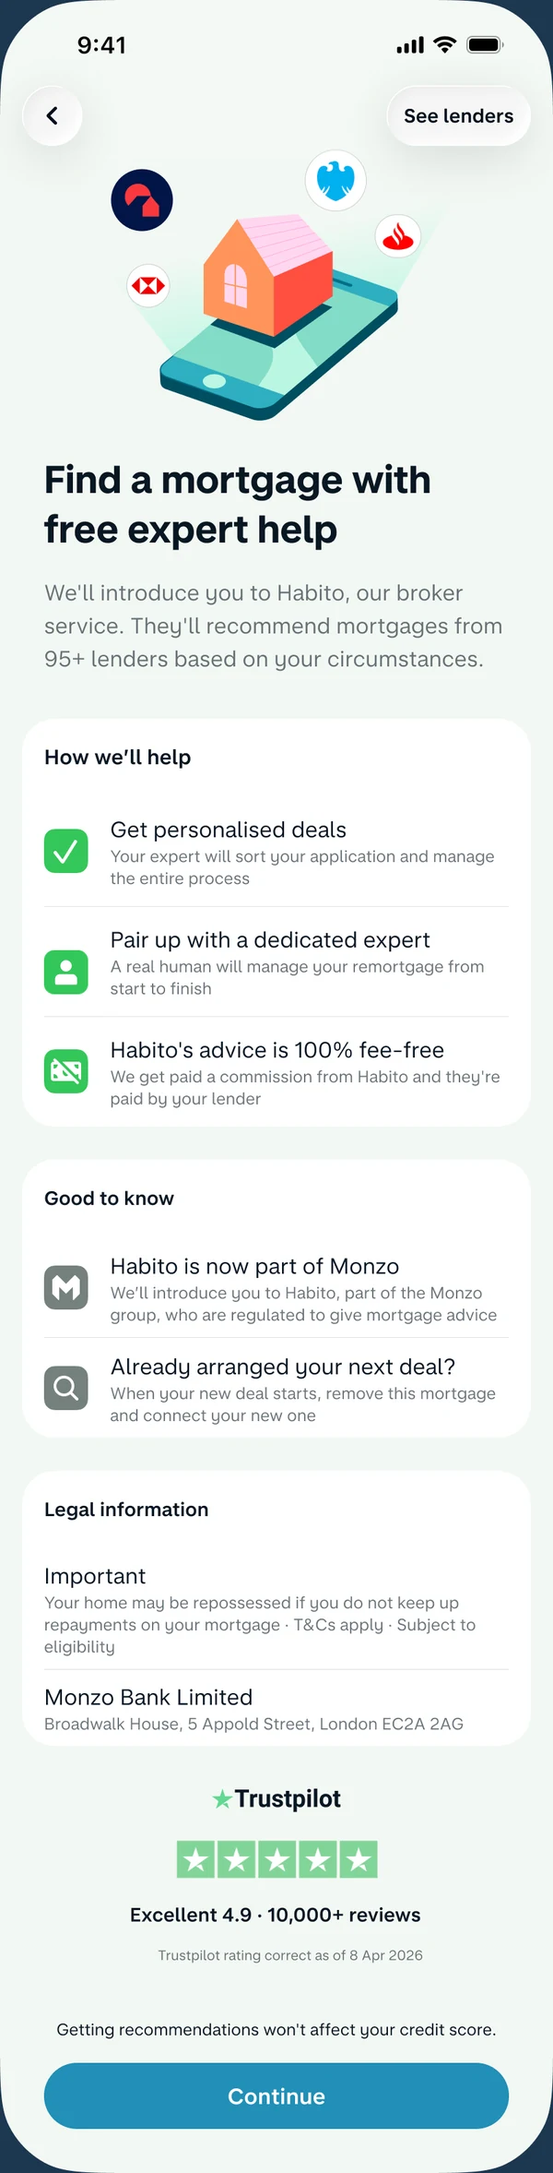
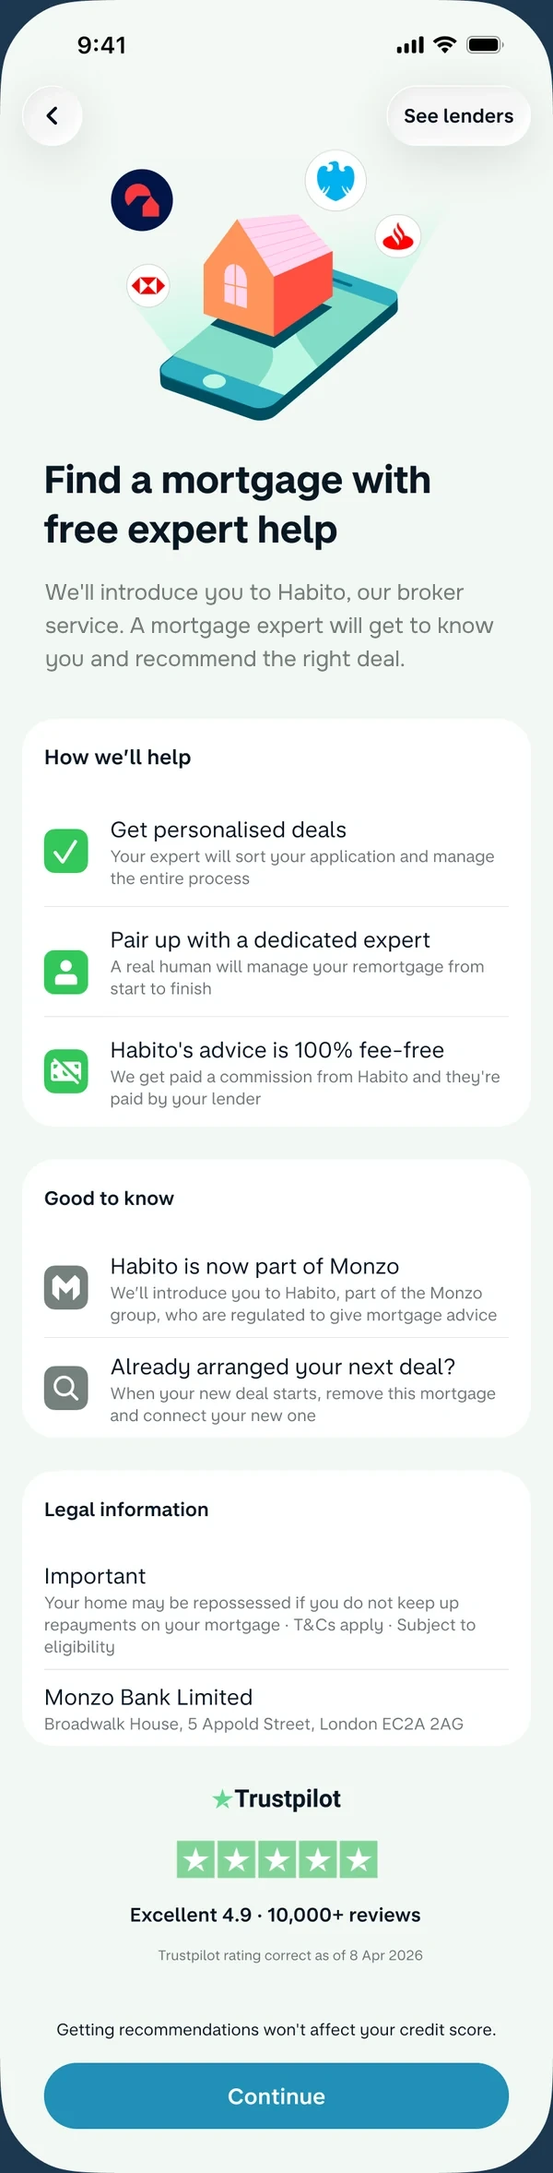
Slide 10: value proposition subtitle leads with the expert, not the number of lenders
Claude-Session: https://claude.ai/code/session_019ui8k763ghSzq4U6arn5bM

Changed region(s): [[0.09, 0.248, 0.9, 0.31]]

diff --git a/remortgage-presentation/present.html b/remortgage-presentation/present.html
@@ -9,11 +9,11 @@
 <link rel="preconnect" href="https://fonts.googleapis.com">
 <link rel="preconnect" href="https://fonts.gstatic.com" crossorigin>
 <link href="https://fonts.googleapis.com/css2?family=DM+Sans:opsz,wght@9..40,400;9..40,500;9..40,600;9..40,700;9..40,800&family=Fragment+Mono&display=swap" rel="stylesheet">
-<link rel="stylesheet" href="styles.css?v=219">
-<link rel="stylesheet" href="deck.css?v=219">
-<link rel="stylesheet" href="monzo.css?v=219">
+<link rel="stylesheet" href="styles.css?v=220">
+<link rel="stylesheet" href="deck.css?v=220">
+<link rel="stylesheet" href="monzo.css?v=220">
 <link rel="preconnect" href="https://images.ctfassets.net">
-<script src="present.js?v=219" defer></script>
+<script src="present.js?v=220" defer></script>
 <style>
 body.present{--bar:52px;background:#112231;grid-template-rows:minmax(0,1fr) auto;height:100svh;min-height:0;overflow:hidden}
 .present .topbar,.present .slide-caption,.present .arrow,.present .notes-bottom,.present .notes-sheet{display:none!important}
@@ -137,7 +137,7 @@ body.present{--bar:52px;background:#112231;grid-template-rows:minmax(0,1fr) auto
   </div>
   <div class="role-ph a" style="--d:4"><div class="bz" style="width:246px"><span class="bz-screen"><img class="ir-scroll" src="assets/img/ir-rates.webp?v=3" alt="Current mortgage rates start at 4.6%: rates by mortgage length, with no connected mortgage" style="--t:-53.4%"></span></div><p><b>Indicative rates</b> · no connection needed</p></div><div class="role-ph a" style="--d:5"><div class="bz" style="width:246px"><span class="bz-screen"><img src="assets/img/ir-filters.webp?v=2" alt="Filters: deal length, property value, mortgage balance, property use and mortgage term"></span></div><p><b>Your details</b> · change them to your own numbers</p></div><div class="role-ph a" style="--d:6"><div class="bz" style="width:246px"><span class="bz-screen"><img class="ir-scroll" src="assets/img/ir-estimated.webp?v=4" alt="Your estimated rates start at 4.64%, based on your own mortgage details" style="--t:-42.4%"></span></div><p><b>Your estimated rates</b> · for your situation</p></div>
 </div></section>
-<section class="slide dark was-light" data-n="10" data-k="honb"><div class="eyebrow a mz-kicker">Habito</div><h1 class="a" style="--d:1">I designed the onboarding to Habito</h1><style>.bz-screen .ir-wrap{display:block;position:relative}.slide.active .bz-screen .ir-wrap{animation:irScroll 16s ease-in-out 1.4s infinite}@media (prefers-reduced-motion:reduce){.slide.active .bz-screen .ir-wrap{animation:none}}</style><div class="honb"><div class="role-ph a" style="--d:3"><div class="bz" style="width:250px"><span class="bz-screen"><span class="ir-wrap" style="--t:-44.6%"><img src="assets/img/honb-1.webp?v=8" alt="Find a mortgage with free expert help: Monzo introduces you to Habito, with how we’ll help and what’s good to know"><img class="bz-anim" src="assets/anim/house-light.webp" alt="" aria-hidden="true" style="left:19.17%;top:7.006%;width:66.67%"></span></span></div><p><b>Value proposition</b> · the first page</p></div><div class="role-ph a" style="--d:4"><div class="bz" style="width:250px"><span class="bz-screen"><img src="assets/img/honb-2.webp?v=7" alt="Habito by Monzo: let’s set up your account with the email Monzo already has, then continue"></span></div><p><b>Your Habito account</b> · check it in the app or on the web</p></div><div class="role-ph a" style="--d:5"><div class="bz" style="width:250px"><span class="bz-screen"><img src="assets/img/honb-3.webp?v=7" alt="Are you remortgaging with someone else? By myself, or with someone else"></span></div><p><b>Someone else?</b> · add a second applicant</p></div><div class="role-ph a" style="--d:6"><div class="bz" style="width:250px"><span class="bz-screen"><img src="assets/img/honb-4.webp?v=7" alt="You’re all set: we’ll now take you to Habito to fill in a few details"></span></div><p><b>You’re all set</b> · then on to Habito</p></div></div><div class="a" style="--d:7;display:flex;justify-content:center;gap:12px;margin-top:18px"><button type="button" class="fig-link ghost fb-btn" data-pop="honb-learning" style="margin-top:0">Learning 1 · people thought we were a comparison site</button><button type="button" class="fig-link ghost fb-btn" data-pop="honb-learning2" style="margin-top:0">Learning 2 · people didn’t want to leave Monzo</button></div><dialog class="fb-pop cmp-pop" id="honb-learning" aria-label="Learning 1: people thought we were a comparison site"><div class="fb-head"><div><p class="fb-kicker">Learning 1 · people thought we were a comparison site</p><p class="fb-sub">We led with “100+ lenders”, so a broker’s questions felt like a bait-and-switch. I led with expert help instead. Live since 1 May 2026; Ops heard fewer questions about comparing deals.</p></div><button type="button" class="fb-close" aria-label="Close">×</button></div><div class="cmp"><figure><img src="assets/img/d1-before.webp?v=1" alt="Before: Compare remortgage deals with Habito" style="aspect-ratio:402/874;object-fit:cover;object-position:top;height:62vh"><figcaption>Before · “Compare remortgage deals from 100+ lenders”</figcaption></figure><figure><img src="assets/img/day1-broker.webp?v=2" alt="After: Find a mortgage with free expert help" style="aspect-ratio:402/874;object-fit:cover;object-position:top;height:62vh"><figcaption>After · “Find a mortgage with free expert help”</figcaption></figure></div></dialog><style>.l2{display:flex;align-items:center;justify-content:center;gap:18px;padding:4px 28px 28px}.l2 figure{margin:0;display:grid;gap:10px;justify-items:center}.l2 figcaption{font-size:15px;font-weight:600;color:var(--mz-soft);text-align:center}.l2 figcaption b{color:#fff;font-weight:700}.fb-pop .l2 img{width:auto;margin:0;background:none}.fb-pop .l2 .ph{height:54vh;aspect-ratio:402/874;object-fit:cover;object-position:top;border-radius:22px}.fb-pop .l2 .lap{height:auto;width:min(430px,34vw);border-radius:0}.l2-arrow{font-size:28px;color:var(--mz-soft);font-weight:300}.l2-two{display:grid;gap:12px;justify-items:center;padding:18px 20px 16px;border-radius:22px;background:rgba(255,255,255,.05)}.l2-two>p{margin:0;font-size:15px;font-weight:700;color:#fff}.l2-two>div{display:flex;align-items:center;gap:20px}</style><dialog class="fb-pop cmp-pop" id="honb-learning2" aria-label="Learning 2: people didn’t want to leave Monzo" style="width:min(1180px,96vw)"><div class="fb-head"><div><p class="fb-kicker">Learning 2 · people didn’t want to leave Monzo</p><p class="fb-sub">We couldn’t avoid sending them to Habito yet. So we framed the account as a benefit: set it up once, then check your progress wherever suits you.</p></div><button type="button" class="fb-close" aria-label="Close">×</button></div><div class="l2"><figure><span style="position:relative;display:inline-block;line-height:0"><img class="ph" src="assets/img/honb-2.webp?v=7" alt="Let’s set up your account: we’ll use your email to set up your Habito account. You can then check your progress here or on Habito’s website"><i aria-hidden="true" style="position:absolute;left:5%;top:36.8%;width:90%;height:9.4%;border:2px solid var(--mz-coral);border-radius:10px;background:rgba(255,77,64,.07)"></i></span><figcaption><b>One account</b> · the benefit, said up front</figcaption></figure><span class="l2-arrow" aria-hidden="true">→</span><div class="l2-two"><p>Check your progress in two places</p><div><figure><img class="ph" style="height:44vh" src="assets/img/trk1-1.webp?v=1" alt="Your progress in the Monzo app: chat with your mortgage expert, then the steps of your remortgage"><figcaption><b>In the Monzo app</b></figcaption></figure><figure><img class="lap" src="assets/img/habito-by-monzo-laptop.png" alt="Habito by Monzo website: your mortgage, in progress"><figcaption><b>Or on Habito’s website</b></figcaption></figure></div></div></div></dialog></section>
+<section class="slide dark was-light" data-n="10" data-k="honb"><div class="eyebrow a mz-kicker">Habito</div><h1 class="a" style="--d:1">I designed the onboarding to Habito</h1><style>.bz-screen .ir-wrap{display:block;position:relative}.slide.active .bz-screen .ir-wrap{animation:irScroll 16s ease-in-out 1.4s infinite}@media (prefers-reduced-motion:reduce){.slide.active .bz-screen .ir-wrap{animation:none}}</style><div class="honb"><div class="role-ph a" style="--d:3"><div class="bz" style="width:250px"><span class="bz-screen"><span class="ir-wrap" style="--t:-44.6%"><img src="assets/img/honb-1.webp?v=9" alt="Find a mortgage with free expert help: Monzo introduces you to Habito, with how we’ll help and what’s good to know"><img class="bz-anim" src="assets/anim/house-light.webp" alt="" aria-hidden="true" style="left:19.17%;top:7.006%;width:66.67%"></span></span></div><p><b>Value proposition</b> · the first page</p></div><div class="role-ph a" style="--d:4"><div class="bz" style="width:250px"><span class="bz-screen"><img src="assets/img/honb-2.webp?v=7" alt="Habito by Monzo: let’s set up your account with the email Monzo already has, then continue"></span></div><p><b>Your Habito account</b> · check it in the app or on the web</p></div><div class="role-ph a" style="--d:5"><div class="bz" style="width:250px"><span class="bz-screen"><img src="assets/img/honb-3.webp?v=7" alt="Are you remortgaging with someone else? By myself, or with someone else"></span></div><p><b>Someone else?</b> · add a second applicant</p></div><div class="role-ph a" style="--d:6"><div class="bz" style="width:250px"><span class="bz-screen"><img src="assets/img/honb-4.webp?v=7" alt="You’re all set: we’ll now take you to Habito to fill in a few details"></span></div><p><b>You’re all set</b> · then on to Habito</p></div></div><div class="a" style="--d:7;display:flex;justify-content:center;gap:12px;margin-top:18px"><button type="button" class="fig-link ghost fb-btn" data-pop="honb-learning" style="margin-top:0">Learning 1 · people thought we were a comparison site</button><button type="button" class="fig-link ghost fb-btn" data-pop="honb-learning2" style="margin-top:0">Learning 2 · people didn’t want to leave Monzo</button></div><dialog class="fb-pop cmp-pop" id="honb-learning" aria-label="Learning 1: people thought we were a comparison site"><div class="fb-head"><div><p class="fb-kicker">Learning 1 · people thought we were a comparison site</p><p class="fb-sub">We led with “100+ lenders”, so a broker’s questions felt like a bait-and-switch. I led with expert help instead. Live since 1 May 2026; Ops heard fewer questions about comparing deals.</p></div><button type="button" class="fb-close" aria-label="Close">×</button></div><div class="cmp"><figure><img src="assets/img/d1-before.webp?v=1" alt="Before: Compare remortgage deals with Habito" style="aspect-ratio:402/874;object-fit:cover;object-position:top;height:62vh"><figcaption>Before · “Compare remortgage deals from 100+ lenders”</figcaption></figure><figure><img src="assets/img/day1-broker.webp?v=3" alt="After: Find a mortgage with free expert help" style="aspect-ratio:402/874;object-fit:cover;object-position:top;height:62vh"><figcaption>After · “Find a mortgage with free expert help”</figcaption></figure></div></dialog><style>.l2{display:flex;align-items:center;justify-content:center;gap:18px;padding:4px 28px 28px}.l2 figure{margin:0;display:grid;gap:10px;justify-items:center}.l2 figcaption{font-size:15px;font-weight:600;color:var(--mz-soft);text-align:center}.l2 figcaption b{color:#fff;font-weight:700}.fb-pop .l2 img{width:auto;margin:0;background:none}.fb-pop .l2 .ph{height:54vh;aspect-ratio:402/874;object-fit:cover;object-position:top;border-radius:22px}.fb-pop .l2 .lap{height:auto;width:min(430px,34vw);border-radius:0}.l2-arrow{font-size:28px;color:var(--mz-soft);font-weight:300}.l2-two{display:grid;gap:12px;justify-items:center;padding:18px 20px 16px;border-radius:22px;background:rgba(255,255,255,.05)}.l2-two>p{margin:0;font-size:15px;font-weight:700;color:#fff}.l2-two>div{display:flex;align-items:center;gap:20px}</style><dialog class="fb-pop cmp-pop" id="honb-learning2" aria-label="Learning 2: people didn’t want to leave Monzo" style="width:min(1180px,96vw)"><div class="fb-head"><div><p class="fb-kicker">Learning 2 · people didn’t want to leave Monzo</p><p class="fb-sub">We couldn’t avoid sending them to Habito yet. So we framed the account as a benefit: set it up once, then check your progress wherever suits you.</p></div><button type="button" class="fb-close" aria-label="Close">×</button></div><div class="l2"><figure><span style="position:relative;display:inline-block;line-height:0"><img class="ph" src="assets/img/honb-2.webp?v=7" alt="Let’s set up your account: we’ll use your email to set up your Habito account. You can then check your progress here or on Habito’s website"><i aria-hidden="true" style="position:absolute;left:5%;top:36.8%;width:90%;height:9.4%;border:2px solid var(--mz-coral);border-radius:10px;background:rgba(255,77,64,.07)"></i></span><figcaption><b>One account</b> · the benefit, said up front</figcaption></figure><span class="l2-arrow" aria-hidden="true">→</span><div class="l2-two"><p>Check your progress in two places</p><div><figure><img class="ph" style="height:44vh" src="assets/img/trk1-1.webp?v=1" alt="Your progress in the Monzo app: chat with your mortgage expert, then the steps of your remortgage"><figcaption><b>In the Monzo app</b></figcaption></figure><figure><img class="lap" src="assets/img/habito-by-monzo-laptop.png" alt="Habito by Monzo website: your mortgage, in progress"><figcaption><b>Or on Habito’s website</b></figcaption></figure></div></div></div></dialog></section>
 <section class="slide dark was-light" data-n="11" data-k="walk">
 <div class="split" style="grid-template-columns:1fr 600px">
   <div>

diff --git a/remortgage-presentation/index.html b/remortgage-presentation/index.html
@@ -9,11 +9,11 @@
 <link rel="preconnect" href="https://fonts.googleapis.com">
 <link rel="preconnect" href="https://fonts.gstatic.com" crossorigin>
 <link href="https://fonts.googleapis.com/css2?family=DM+Sans:opsz,wght@9..40,400;9..40,500;9..40,600;9..40,700;9..40,800&family=Fragment+Mono&display=swap" rel="stylesheet">
-<link rel="stylesheet" href="styles.css?v=219">
-<link rel="stylesheet" href="deck.css?v=219">
-<link rel="stylesheet" href="monzo.css?v=219">
+<link rel="stylesheet" href="styles.css?v=220">
+<link rel="stylesheet" href="deck.css?v=220">
+<link rel="stylesheet" href="monzo.css?v=220">
 <link rel="preconnect" href="https://images.ctfassets.net">
-<script src="slides.js?v=219" defer></script>
+<script src="slides.js?v=220" defer></script>
 </head>
 <body>
 <header class="topbar">
@@ -125,7 +125,7 @@
   </div>
   <div class="role-ph a" style="--d:4"><div class="bz" style="width:246px"><span class="bz-screen"><img class="ir-scroll" src="assets/img/ir-rates.webp?v=3" alt="Current mortgage rates start at 4.6%: rates by mortgage length, with no connected mortgage" style="--t:-53.4%"></span></div><p><b>Indicative rates</b> · no connection needed</p></div><div class="role-ph a" style="--d:5"><div class="bz" style="width:246px"><span class="bz-screen"><img src="assets/img/ir-filters.webp?v=2" alt="Filters: deal length, property value, mortgage balance, property use and mortgage term"></span></div><p><b>Your details</b> · change them to your own numbers</p></div><div class="role-ph a" style="--d:6"><div class="bz" style="width:246px"><span class="bz-screen"><img class="ir-scroll" src="assets/img/ir-estimated.webp?v=4" alt="Your estimated rates start at 4.64%, based on your own mortgage details" style="--t:-42.4%"></span></div><p><b>Your estimated rates</b> · for your situation</p></div>
 </div></section>
-<section class="slide dark was-light" data-n="10" data-k="honb"><div class="eyebrow a mz-kicker">Habito</div><h1 class="a" style="--d:1">I designed the onboarding to Habito</h1><style>.bz-screen .ir-wrap{display:block;position:relative}.slide.active .bz-screen .ir-wrap{animation:irScroll 16s ease-in-out 1.4s infinite}@media (prefers-reduced-motion:reduce){.slide.active .bz-screen .ir-wrap{animation:none}}</style><div class="honb"><div class="role-ph a" style="--d:3"><div class="bz" style="width:250px"><span class="bz-screen"><span class="ir-wrap" style="--t:-44.6%"><img src="assets/img/honb-1.webp?v=8" alt="Find a mortgage with free expert help: Monzo introduces you to Habito, with how we’ll help and what’s good to know"><img class="bz-anim" src="assets/anim/house-light.webp" alt="" aria-hidden="true" style="left:19.17%;top:7.006%;width:66.67%"></span></span></div><p><b>Value proposition</b> · the first page</p></div><div class="role-ph a" style="--d:4"><div class="bz" style="width:250px"><span class="bz-screen"><img src="assets/img/honb-2.webp?v=7" alt="Habito by Monzo: let’s set up your account with the email Monzo already has, then continue"></span></div><p><b>Your Habito account</b> · check it in the app or on the web</p></div><div class="role-ph a" style="--d:5"><div class="bz" style="width:250px"><span class="bz-screen"><img src="assets/img/honb-3.webp?v=7" alt="Are you remortgaging with someone else? By myself, or with someone else"></span></div><p><b>Someone else?</b> · add a second applicant</p></div><div class="role-ph a" style="--d:6"><div class="bz" style="width:250px"><span class="bz-screen"><img src="assets/img/honb-4.webp?v=7" alt="You’re all set: we’ll now take you to Habito to fill in a few details"></span></div><p><b>You’re all set</b> · then on to Habito</p></div></div><div class="a" style="--d:7;display:flex;justify-content:center;gap:12px;margin-top:18px"><button type="button" class="fig-link ghost fb-btn" data-pop="honb-learning" style="margin-top:0">Learning 1 · people thought we were a comparison site</button><button type="button" class="fig-link ghost fb-btn" data-pop="honb-learning2" style="margin-top:0">Learning 2 · people didn’t want to leave Monzo</button></div><dialog class="fb-pop cmp-pop" id="honb-learning" aria-label="Learning 1: people thought we were a comparison site"><div class="fb-head"><div><p class="fb-kicker">Learning 1 · people thought we were a comparison site</p><p class="fb-sub">We led with “100+ lenders”, so a broker’s questions felt like a bait-and-switch. I led with expert help instead. Live since 1 May 2026; Ops heard fewer questions about comparing deals.</p></div><button type="button" class="fb-close" aria-label="Close">×</button></div><div class="cmp"><figure><img src="assets/img/d1-before.webp?v=1" alt="Before: Compare remortgage deals with Habito" style="aspect-ratio:402/874;object-fit:cover;object-position:top;height:62vh"><figcaption>Before · “Compare remortgage deals from 100+ lenders”</figcaption></figure><figure><img src="assets/img/day1-broker.webp?v=2" alt="After: Find a mortgage with free expert help" style="aspect-ratio:402/874;object-fit:cover;object-position:top;height:62vh"><figcaption>After · “Find a mortgage with free expert help”</figcaption></figure></div></dialog><style>.l2{display:flex;align-items:center;justify-content:center;gap:18px;padding:4px 28px 28px}.l2 figure{margin:0;display:grid;gap:10px;justify-items:center}.l2 figcaption{font-size:15px;font-weight:600;color:var(--mz-soft);text-align:center}.l2 figcaption b{color:#fff;font-weight:700}.fb-pop .l2 img{width:auto;margin:0;background:none}.fb-pop .l2 .ph{height:54vh;aspect-ratio:402/874;object-fit:cover;object-position:top;border-radius:22px}.fb-pop .l2 .lap{height:auto;width:min(430px,34vw);border-radius:0}.l2-arrow{font-size:28px;color:var(--mz-soft);font-weight:300}.l2-two{display:grid;gap:12px;justify-items:center;padding:18px 20px 16px;border-radius:22px;background:rgba(255,255,255,.05)}.l2-two>p{margin:0;font-size:15px;font-weight:700;color:#fff}.l2-two>div{display:flex;align-items:center;gap:20px}</style><dialog class="fb-pop cmp-pop" id="honb-learning2" aria-label="Learning 2: people didn’t want to leave Monzo" style="width:min(1180px,96vw)"><div class="fb-head"><div><p class="fb-kicker">Learning 2 · people didn’t want to leave Monzo</p><p class="fb-sub">We couldn’t avoid sending them to Habito yet. So we framed the account as a benefit: set it up once, then check your progress wherever suits you.</p></div><button type="button" class="fb-close" aria-label="Close">×</button></div><div class="l2"><figure><span style="position:relative;display:inline-block;line-height:0"><img class="ph" src="assets/img/honb-2.webp?v=7" alt="Let’s set up your account: we’ll use your email to set up your Habito account. You can then check your progress here or on Habito’s website"><i aria-hidden="true" style="position:absolute;left:5%;top:36.8%;width:90%;height:9.4%;border:2px solid var(--mz-coral);border-radius:10px;background:rgba(255,77,64,.07)"></i></span><figcaption><b>One account</b> · the benefit, said up front</figcaption></figure><span class="l2-arrow" aria-hidden="true">→</span><div class="l2-two"><p>Check your progress in two places</p><div><figure><img class="ph" style="height:44vh" src="assets/img/trk1-1.webp?v=1" alt="Your progress in the Monzo app: chat with your mortgage expert, then the steps of your remortgage"><figcaption><b>In the Monzo app</b></figcaption></figure><figure><img class="lap" src="assets/img/habito-by-monzo-laptop.png" alt="Habito by Monzo website: your mortgage, in progress"><figcaption><b>Or on Habito’s website</b></figcaption></figure></div></div></div></dialog></section>
+<section class="slide dark was-light" data-n="10" data-k="honb"><div class="eyebrow a mz-kicker">Habito</div><h1 class="a" style="--d:1">I designed the onboarding to Habito</h1><style>.bz-screen .ir-wrap{display:block;position:relative}.slide.active .bz-screen .ir-wrap{animation:irScroll 16s ease-in-out 1.4s infinite}@media (prefers-reduced-motion:reduce){.slide.active .bz-screen .ir-wrap{animation:none}}</style><div class="honb"><div class="role-ph a" style="--d:3"><div class="bz" style="width:250px"><span class="bz-screen"><span class="ir-wrap" style="--t:-44.6%"><img src="assets/img/honb-1.webp?v=9" alt="Find a mortgage with free expert help: Monzo introduces you to Habito, with how we’ll help and what’s good to know"><img class="bz-anim" src="assets/anim/house-light.webp" alt="" aria-hidden="true" style="left:19.17%;top:7.006%;width:66.67%"></span></span></div><p><b>Value proposition</b> · the first page</p></div><div class="role-ph a" style="--d:4"><div class="bz" style="width:250px"><span class="bz-screen"><img src="assets/img/honb-2.webp?v=7" alt="Habito by Monzo: let’s set up your account with the email Monzo already has, then continue"></span></div><p><b>Your Habito account</b> · check it in the app or on the web</p></div><div class="role-ph a" style="--d:5"><div class="bz" style="width:250px"><span class="bz-screen"><img src="assets/img/honb-3.webp?v=7" alt="Are you remortgaging with someone else? By myself, or with someone else"></span></div><p><b>Someone else?</b> · add a second applicant</p></div><div class="role-ph a" style="--d:6"><div class="bz" style="width:250px"><span class="bz-screen"><img src="assets/img/honb-4.webp?v=7" alt="You’re all set: we’ll now take you to Habito to fill in a few details"></span></div><p><b>You’re all set</b> · then on to Habito</p></div></div><div class="a" style="--d:7;display:flex;justify-content:center;gap:12px;margin-top:18px"><button type="button" class="fig-link ghost fb-btn" data-pop="honb-learning" style="margin-top:0">Learning 1 · people thought we were a comparison site</button><button type="button" class="fig-link ghost fb-btn" data-pop="honb-learning2" style="margin-top:0">Learning 2 · people didn’t want to leave Monzo</button></div><dialog class="fb-pop cmp-pop" id="honb-learning" aria-label="Learning 1: people thought we were a comparison site"><div class="fb-head"><div><p class="fb-kicker">Learning 1 · people thought we were a comparison site</p><p class="fb-sub">We led with “100+ lenders”, so a broker’s questions felt like a bait-and-switch. I led with expert help instead. Live since 1 May 2026; Ops heard fewer questions about comparing deals.</p></div><button type="button" class="fb-close" aria-label="Close">×</button></div><div class="cmp"><figure><img src="assets/img/d1-before.webp?v=1" alt="Before: Compare remortgage deals with Habito" style="aspect-ratio:402/874;object-fit:cover;object-position:top;height:62vh"><figcaption>Before · “Compare remortgage deals from 100+ lenders”</figcaption></figure><figure><img src="assets/img/day1-broker.webp?v=3" alt="After: Find a mortgage with free expert help" style="aspect-ratio:402/874;object-fit:cover;object-position:top;height:62vh"><figcaption>After · “Find a mortgage with free expert help”</figcaption></figure></div></dialog><style>.l2{display:flex;align-items:center;justify-content:center;gap:18px;padding:4px 28px 28px}.l2 figure{margin:0;display:grid;gap:10px;justify-items:center}.l2 figcaption{font-size:15px;font-weight:600;color:var(--mz-soft);text-align:center}.l2 figcaption b{color:#fff;font-weight:700}.fb-pop .l2 img{width:auto;margin:0;background:none}.fb-pop .l2 .ph{height:54vh;aspect-ratio:402/874;object-fit:cover;object-position:top;border-radius:22px}.fb-pop .l2 .lap{height:auto;width:min(430px,34vw);border-radius:0}.l2-arrow{font-size:28px;color:var(--mz-soft);font-weight:300}.l2-two{display:grid;gap:12px;justify-items:center;padding:18px 20px 16px;border-radius:22px;background:rgba(255,255,255,.05)}.l2-two>p{margin:0;font-size:15px;font-weight:700;color:#fff}.l2-two>div{display:flex;align-items:center;gap:20px}</style><dialog class="fb-pop cmp-pop" id="honb-learning2" aria-label="Learning 2: people didn’t want to leave Monzo" style="width:min(1180px,96vw)"><div class="fb-head"><div><p class="fb-kicker">Learning 2 · people didn’t want to leave Monzo</p><p class="fb-sub">We couldn’t avoid sending them to Habito yet. So we framed the account as a benefit: set it up once, then check your progress wherever suits you.</p></div><button type="button" class="fb-close" aria-label="Close">×</button></div><div class="l2"><figure><span style="position:relative;display:inline-block;line-height:0"><img class="ph" src="assets/img/honb-2.webp?v=7" alt="Let’s set up your account: we’ll use your email to set up your Habito account. You can then check your progress here or on Habito’s website"><i aria-hidden="true" style="position:absolute;left:5%;top:36.8%;width:90%;height:9.4%;border:2px solid var(--mz-coral);border-radius:10px;background:rgba(255,77,64,.07)"></i></span><figcaption><b>One account</b> · the benefit, said up front</figcaption></figure><span class="l2-arrow" aria-hidden="true">→</span><div class="l2-two"><p>Check your progress in two places</p><div><figure><img class="ph" style="height:44vh" src="assets/img/trk1-1.webp?v=1" alt="Your progress in the Monzo app: chat with your mortgage expert, then the steps of your remortgage"><figcaption><b>In the Monzo app</b></figcaption></figure><figure><img class="lap" src="assets/img/habito-by-monzo-laptop.png" alt="Habito by Monzo website: your mortgage, in progress"><figcaption><b>Or on Habito’s website</b></figcaption></figure></div></div></div></dialog></section>
 <section class="slide dark was-light" data-n="11" data-k="walk">
 <div class="split" style="grid-template-columns:1fr 600px">
   <div>

diff --git a/remortgage-presentation/15min-present.html b/remortgage-presentation/15min-present.html
@@ -9,11 +9,11 @@
 <link rel="preconnect" href="https://fonts.googleapis.com">
 <link rel="preconnect" href="https://fonts.gstatic.com" crossorigin>
 <link href="https://fonts.googleapis.com/css2?family=DM+Sans:opsz,wght@9..40,400;9..40,500;9..40,600;9..40,700;9..40,800&family=Fragment+Mono&display=swap" rel="stylesheet">
-<link rel="stylesheet" href="styles.css?v=219">
-<link rel="stylesheet" href="deck.css?v=219">
-<link rel="stylesheet" href="monzo.css?v=219">
+<link rel="stylesheet" href="styles.css?v=220">
+<link rel="stylesheet" href="deck.css?v=220">
+<link rel="stylesheet" href="monzo.css?v=220">
 <link rel="preconnect" href="https://images.ctfassets.net">
-<script src="15min-present.js?v=219" defer></script>
+<script src="15min-present.js?v=220" defer></script>
 <style>
 body.present{--bar:52px;background:#112231;grid-template-rows:minmax(0,1fr) auto;height:100svh;min-height:0;overflow:hidden}
 .present .topbar,.present .slide-caption,.present .arrow,.present .notes-bottom,.present .notes-sheet{display:none!important}

diff --git a/remortgage-presentation/15min.html b/remortgage-presentation/15min.html
@@ -9,11 +9,11 @@
 <link rel="preconnect" href="https://fonts.googleapis.com">
 <link rel="preconnect" href="https://fonts.gstatic.com" crossorigin>
 <link href="https://fonts.googleapis.com/css2?family=DM+Sans:opsz,wght@9..40,400;9..40,500;9..40,600;9..40,700;9..40,800&family=Fragment+Mono&display=swap" rel="stylesheet">
-<link rel="stylesheet" href="styles.css?v=219">
-<link rel="stylesheet" href="deck.css?v=219">
-<link rel="stylesheet" href="monzo.css?v=219">
+<link rel="stylesheet" href="styles.css?v=220">
+<link rel="stylesheet" href="deck.css?v=220">
+<link rel="stylesheet" href="monzo.css?v=220">
 <link rel="preconnect" href="https://images.ctfassets.net">
-<script src="15min.js?v=219" defer></script>
+<script src="15min.js?v=220" defer></script>
 </head>
 <body>
 <header class="topbar">
